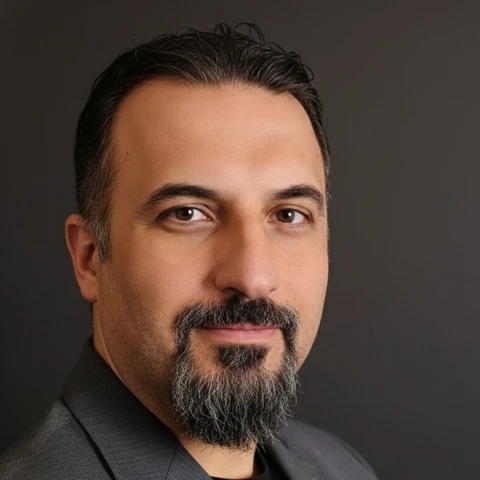
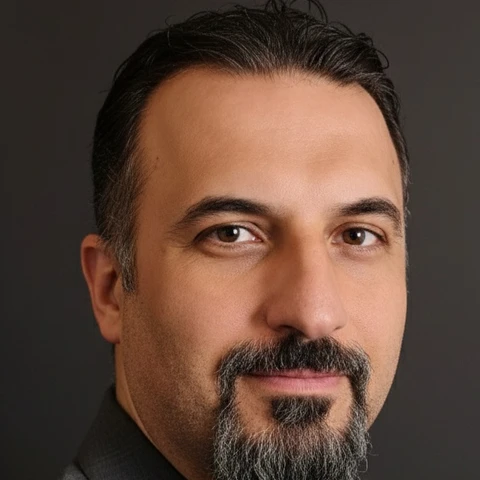
feat: write the event name as DSATalks, add Silvan Schwaller's biography and recenter İlker Ünal's photo

diff --git a/src/data/speakers.ts b/src/data/speakers.ts
@@ -45,7 +45,14 @@ export const speakers: Speaker[] = [
       tr: ["FİGES", "Akademik Planlama ve Geliştirme Mühendisi"],
     },
     photo: "/images/speakers/silvan-schwaller.webp",
-    bio: { en: [], tr: [] },
+    bio: {
+      en: [
+        "After graduating from the Department of Aerospace Engineering at Middle East Technical University (METU) in 2019, he completed a master’s degree in Engineering Management at Galatasaray University. He currently works as a Customer Success Engineer at FİGES A.Ş., where he supports academics, researchers and students working on a wide range of topics at universities with MATLAB & Simulink.",
+      ],
+      tr: [
+        "ODTÜ Havacılık ve Uzay Mühendisliği bölümünden 2019 yılında mezun olduktan sonra Galatasaray Üniversitesi’nde Mühendislik Yönetimi üstüne yüksek lisans yaptı. Şu anda FİGES A.Ş.’de Müşteri Başarı Mühendisi olarak çalışmakta ve bu kapsamda üniversitelerdeki farklı konularda çalışan akademisyen, araştırmacı ve öğrencilere MATLAB & Simulink ile ilgili konularda destek olmaktadır.",
+      ],
+    },
     links: {},
   },
   {

diff --git a/src/app/opengraph-image.tsx b/src/app/opengraph-image.tsx
@@ -4,7 +4,7 @@ import { join } from "node:path";
 
 // Link preview for WhatsApp, LinkedIn, X…: the poster's red band in 1200×630.
 
-export const alt = "DSA Talks – Data Science and Analytics · 4–5 November 2026 · ATÜ Library Conference Hall, Adana";
+export const alt = "DSATalks – Data Science and Analytics · 4–5 November 2026 · ATÜ Library Conference Hall, Adana";
 export const size = { width: 1200, height: 630 };
 export const contentType = "image/png";
 
@@ -55,7 +55,7 @@ export default async function Image() {
         <div style={{ display: "flex", flexDirection: "column" }}>
           <div style={{ display: "flex", fontSize: 190, fontWeight: 900, lineHeight: 0.9, letterSpacing: -10 }}>
             <span>DSA</span>
-            <span style={{ color: "#13224b", marginLeft: 40 }}>Talks</span>
+            <span style={{ color: "#13224b" }}>Talks</span>
           </div>
           <div style={{ width: 170, height: 12, borderRadius: 6, background: "#13224b", marginTop: 34 }} />
           <div style={{ display: "flex", alignItems: "center", fontSize: 50, fontWeight: 700, marginTop: 30 }}>

diff --git a/src/components/Hero.tsx b/src/components/Hero.tsx
@@ -13,7 +13,7 @@ const rise = {
   show: { opacity: 1, y: 0, transition: { duration: 0.8, ease: EASE } },
 };
 
-// Red invitation band from the poster: giant "DSA Talks", the slogan with its navy
+// Red invitation band from the poster: giant "DSATalks", the slogan with its navy
 // highlight, a live node network on the right and the round date badge.
 export default function Hero() {
   const { m } = useLanguage();
@@ -50,7 +50,7 @@ export default function Hero() {
               variants={rise}
               className="text-[clamp(4.6rem,14vw,12rem)] font-black leading-[0.86] tracking-[-0.055em] lg:whitespace-nowrap lg:text-[clamp(6rem,min(10vw,18svh),11rem)]"
             >
-              <span className="text-white">DSA</span> <span className="text-ink">Talks</span>
+              <span className="text-white">DSA</span><span className="text-ink">Talks</span>
             </motion.h1>
 
             <motion.span

diff --git a/src/app/layout.tsx b/src/app/layout.tsx
@@ -12,7 +12,7 @@ const poppins = Poppins({
   weight: ["300", "400", "500", "600", "700", "800", "900"],
 });
 
-const title = "DSA Talks – Data Science and Analytics";
+const title = "DSATalks – Data Science and Analytics";
 const description =
   "Two days of talks on data science, biostatistics, machine learning and AI. 4–5 November 2026, ATÜ Library Conference Hall, Adana.";
 
@@ -22,8 +22,9 @@ export const metadata: Metadata = {
   metadataBase: new URL(siteUrl),
   title,
   description,
-  applicationName: "DSA Talks",
+  applicationName: "DSATalks",
   keywords: [
+    "DSATalks",
     "DSA Talks",
     "data science",
     "data analytics",
@@ -43,7 +44,7 @@ export const metadata: Metadata = {
   openGraph: {
     type: "website",
     url: "/",
-    siteName: "DSA Talks",
+    siteName: "DSATalks",
     title,
     description,
     locale: "en_US",

diff --git a/src/components/ui.tsx b/src/components/ui.tsx
@@ -7,11 +7,11 @@ export function Container({ children, className = "" }: { children: React.ReactN
   return <div className={`mx-auto w-full max-w-7xl px-5 sm:px-8 ${className}`}>{children}</div>;
 }
 
-// "DSA Talks" set in the poster's colors; stands in for a logo until there is one.
+// "DSATalks" set in the poster's colors; stands in for a logo until there is one.
 export function Wordmark({ light = false, className = "" }: { light?: boolean; className?: string }) {
   return (
     <span className={`font-black tracking-[-0.04em] ${className}`}>
-      <span className={light ? "text-white" : "text-brand"}>DSA</span>{" "}
+      <span className={light ? "text-white" : "text-brand"}>DSA</span>
       <span className={light ? "text-brand" : "text-ink"}>Talks</span>
     </span>
   );

diff --git a/src/app/manifest.ts b/src/app/manifest.ts
@@ -2,8 +2,8 @@ import type { MetadataRoute } from "next";
 
 export default function manifest(): MetadataRoute.Manifest {
   return {
-    name: "DSA Talks – Data Science and Analytics",
-    short_name: "DSA Talks",
+    name: "DSATalks – Data Science and Analytics",
+    short_name: "DSATalks",
     description:
       "Two days of talks on data science, biostatistics, machine learning and AI. 4–5 November 2026, ATÜ Library Conference Hall, Adana.",
     start_url: "/",

diff --git a/src/app/page.tsx b/src/app/page.tsx
@@ -29,7 +29,7 @@ const place = {
 const eventJsonLd = {
   "@context": "https://schema.org",
   "@type": "Event",
-  name: "DSA Talks",
+  name: "DSATalks",
   description: en.hero.intro,
   url: siteUrl,
   image: `${siteUrl}/opengraph-image`,

diff --git a/README.md b/README.md
@@ -1,6 +1,6 @@
-# DSA Talks
+# DSATalks
 
-One-page site for DSA Talks (Adana Alparslan Türkeş Science and Technology University, 4–5 November 2026, ATÜ Library Conference Hall).
+One-page site for DSATalks (Adana Alparslan Türkeş Science and Technology University, 4–5 November 2026, ATÜ Library Conference Hall).
 
 ```bash
 npm install
